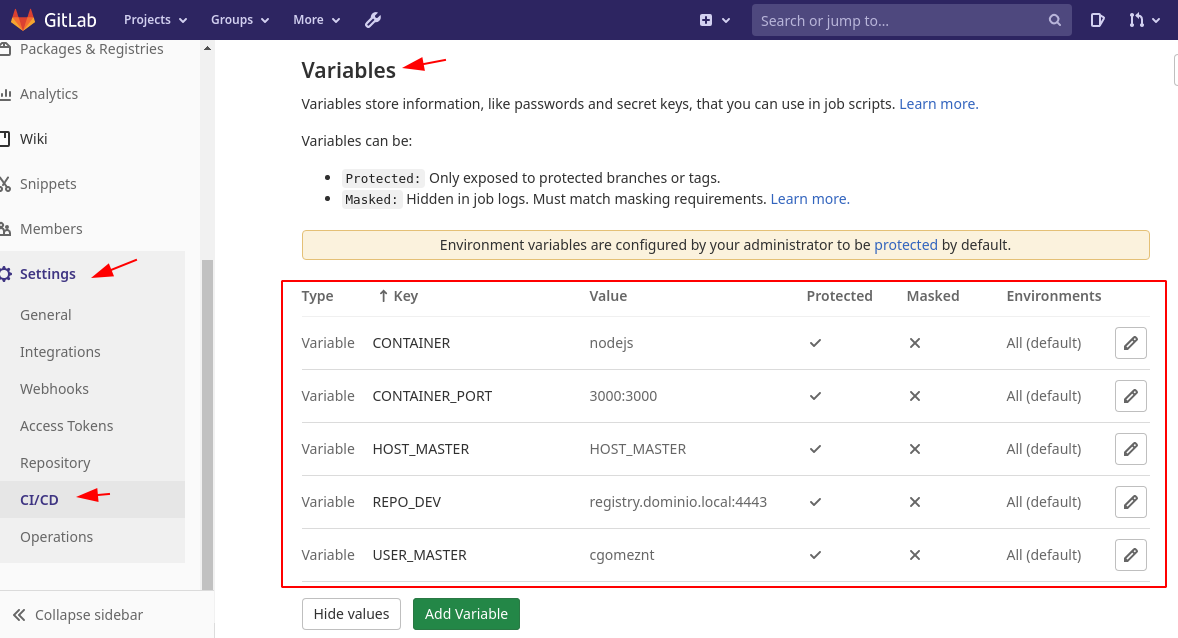
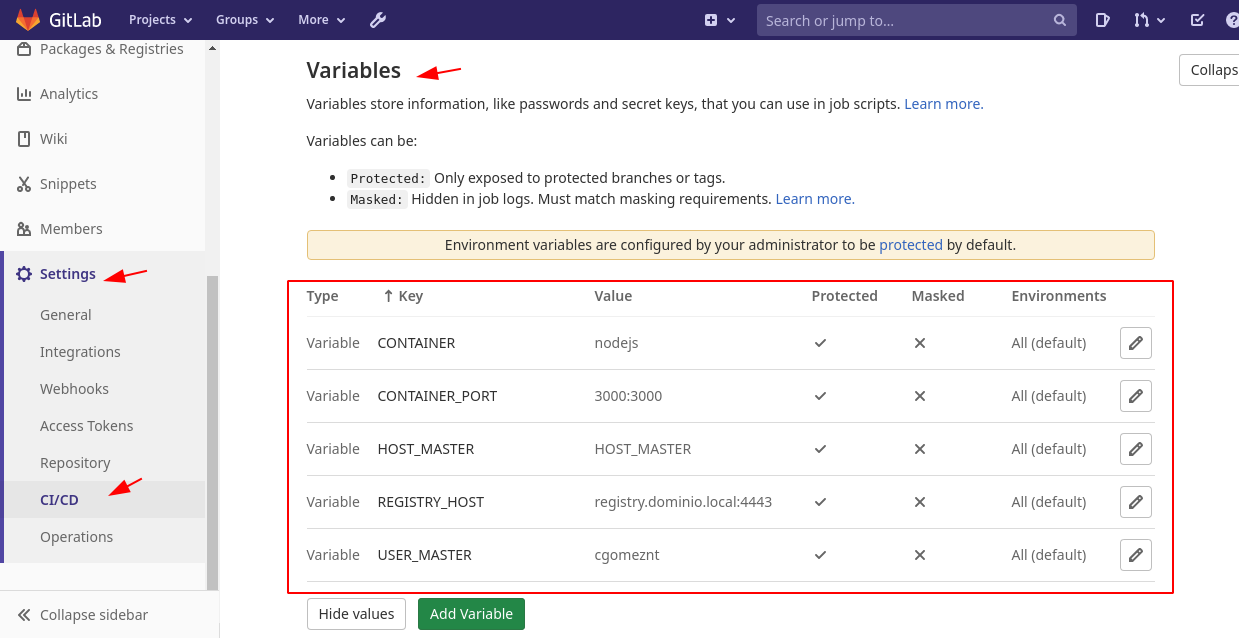
My Commit

diff --git a/guia/CI-CDGitlabGitlab-runnerDockerRegistry.rst b/guia/CI-CDGitlabGitlab-runnerDockerRegistry.rst
@@ -194,9 +194,10 @@ Creamos las variables dentro del proyecto de Gitlab en la sesión de Setting -> 
 
 * HOST_MASTER - 172.18.0.1	# Esta es la dirección IP del adaptador Docker del Host.
 
-* REPO_DEV - registry.dominio.local:4443	# Este es el nombre DNS y puerto del registry.
+* REGISTRY_HOST - registry.dominio.local:4443	# Este es el nombre DNS y puerto del registry.
 
 * USER_MASTER - cgomeznt	# Este es el usuario con privilegios desde el contenedor gitlab.dominio.local hacer ssh en el Host.
+
 
 .. figure:: ../images/cicd/06.png
 
@@ -253,15 +254,15 @@ Agregamos todos los cambios, hacemos el commit y el push::
 
 Nos vamos al proyecto y en CI/CD veremos que se activo un pipeline gracias al Runner Shell.
 
-Vemos como primero esta en **Pendding**
+Vemos como primero esta en **pending**
 
 .. figure:: ../images/cicd/07.png
 
-Vemos como pasa a **Running**
+Vemos como pasa a **running**
 
 .. figure:: ../images/cicd/08.png
 
-Vemos dentro de **Running**  todos los pipeline
+Vemos dentro de **running**  todos los pipeline
 
 .. figure:: ../images/cicd/09.png
 
